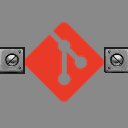
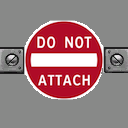
stand by for 0.9b2

diff --git a/README.md b/README.md
@@ -1,57 +1,119 @@
-GitCraft version 0.9b1
+GitCraft version 0.9b2
 
 INTRODUCTION
 
-The goal of GitCraft is to make sure that craft revisions are not lost during design and testing and to allow designers to easily
-restore older designs even if the craft was overwritten in the editor. In other words, GitCraft gives you the ability to
-undo any change to your craft provided that the version that you want to restore was saved. Thus, GitCraft can be compared
-to an undo button that works across launches and game sessions.
+The goal of GitCraft is to make sure that craft revisions are not lost during
+design and testing and to allow designers to easily restore older designs
+even if the craft was overwritten in the editor. In other words, GitCraft gives
+you the ability to undo any change to your craft provided that the version that
+you want to restore was saved. Thus, GitCraft can be compared to an undo button
+that works across launches and game sessions. GitCraft achieves this ability by
+integrating Git distributed revision control software with KSP.
 
-GitCraft achieves this ability by integrating Git distributed revision control software with KSP.
+GitCraft only affects editing your ships. It does not interact with your vessel
+outside of Vehicle Assembly Building or Space Plane Hangar. GitCraft integrates
+with the standard editor UI. In other words, your revisions are stored by git as
+you save them in the editor. To restore a revision you can activate the history
+window by clicking the git button and then click on the revision that you want
+to restore. GitCraft shows the part count and the game time when the ship was
+saved. Since version 0.9b2, and in the version you downloaded, attaching a part
+is not required to enable GitCraft, it is a "partless" plugin that works for
+all ships.
 
-GitCraft only affects editing your ships. It does not interact with your vessel outside of Vehicle Assembly Building
-or Space Plane Hangar (you need to attach the Git part to your ship to enable GitCraft, but the part does not do anything during flight).
+GitCraft is integrated with the popular Toolbar plugin (see
+http://forum.kerbalspaceprogram.com/threads/60066), but it will work even if the
+Toolbar plugin is not installed.
 
-GitCraft integrates with the standard editor UI. In other words, your revisions are stored by git as you save them in the editor.
-To restore revisions you can activate the history window by clicking the git button and then click on the revision that
-you want to restore. GitCraft provides the part count and the game time when the ship was saved.
-
-Currently, GitCraft works on Windows, Mac OS X, and Linux (Linux support is
-currently restricted to x86-64 installations of Linux and corresponding 64-bit
-executables of KSP).
+Currently, GitCraft works on Windows, Mac OS X, and a subset of Linux
+installations (i.e., x86-64 installations of Linux and corresponding 64-bit KSP
+executables).
 
 INSTALLATION
 
-1) Merge the contents of the GameData directory with the GameData directory of your Kerbal Space Program directory.
-Thus, the directory "Exosomatic Ontologies" should appear inside the GameData directory of your KSP.
-2) On Windows, copy git2-65e9dc6.dll into root KSP directory, i.e., into the directory where the file KSP.exe is.
+1) Merge the contents of the GameData directory with the GameData directory of
+your Kerbal Space Program directory.
+Thus, the directory "Exosomatic Ontologies" should appear inside the GameData
+directory of your KSP. If you are upgrading from an earlier version, then
+the old directory in GameData should be replaced by the directory from this
+distribution. In other words, please delete the old directory and then put the
+directory from this distribution in its place.
+2) On Windows, copy git2-65e9dc6.dll into root KSP directory, i.e., into the
+directory where the file KSP.exe is.
 On Mac, copy the file libgit2-65e9dc6.dylib into the root KSP directory.
-This step is necessary because GitCraft currently uses libgit2, which is a native implementaton of git. 
-
-To use GitCraft on your ship, simply attach the "Git" part that can be found under the "Control" section of the editor 
-to any part of your ship. The git button should appear in the top right corner of the editor once the part was attached.
+On Linux, copy the file libgit2-65e9dc6.so into the root KSP directory.
+This step is necessary because GitCraft currently uses libgit2, which is a
+native implementaton of git. If you are upgrading from an earlier version, then
+this step can be skipped.
 
 TECHNICAL DETAILS
 
-GitCraft initializes a new git repository in your saved game directory. Thus, if the name of your game is "default",
-then a git repository will be intialized in <KSP_ROOT>/saves/default/.git
+GitCraft initializes a new git repository in your saved game directory. Thus,
+if the name of your game is "default", then a git repository will be intialized
+in <KSP_ROOT>/saves/default/.git
 
 To delete all data stored by GitCraft, simply remove the ".git" directory.
 
-GitCraft automatically commits the craft file when it is saved. The part count and the timestamp are stored in the commit message.
+GitCraft automatically commits the craft file when it is saved. The part count
+and the timestamp are stored in the commit message.
+
+Since version 0.9b2, the Git part is NO LONGER REQUIRED for GitCraft to work,
+the plugin is "partless" and is enabled for all designs.
+The Git part is still present in the "Control" section of the editor
+to provide painless upgrade path for 0.9b1 users. In the next version the part
+WILL BE COMPLETELY REMOVED from the plugin. The upgrade code path, which will
+include a dialog requesting permission to chop the part off, will be provded in
+the next release. Users are advised to complete all active missions that use
+vessels with the Git part attached to them.
 
 SOURCE CODE AND LICENSING
 
-GitCraft uses libgit2 and libgit2sharp. GitCraft is distributed under GPLv2 license, please see GitCraft_license.txt.
-libgit2 is distributed under GPLv2, please see its license in libgit2.license.txt.
+GitCraft uses libgit2 and libgit2sharp. GitCraft is distributed under GPLv2
+license, please see GitCraft_license.txt.
 
-This project uses portions of Novapunch part pack, which is licensed under Creative Commons Attribute-Sharealike 3.0 License.
-Please see the license for Novapunch in novapunch2_03a_license.txt.
+libgit2 is distributed under GPLv2, please see its license in
+libgit2.license.txt.
 
-This project uses the git logo, which was created by Jason Long. The logo was covered by Creative Commons Attribution 3.0 Unported license 
-as of 01/15/2013. Please refert to http://creativecommons.org/licenses/by/3.0/ in order to obtain the text of the license.
+This project uses portions of Novapunch part pack, which is licensed under
+Creative Commons Attribute-Sharealike 3.0 License. Please see the license for
+Novapunch in novapunch2_03a_license.txt.
 
-The buildable source code for GitCraft and all its dependencies can be obtained from https://github.com/exmksp/GitCraft
-To build a universal binary for the libgit2 binary on Mac you may need to use the patch stored in the source directory.
+This project uses the git logo, which was created by Jason Long. The logo was
+covered by Creative Commons Attribution 3.0 Unported license
+as of 01/20/2013. Please refer to http://creativecommons.org/licenses/by/3.0/
+in order to obtain the text of the license.
 
-TODO: case sensitivity FUBAR
+The buildable source code for GitCraft and all its dependencies can be obtained
+from https://github.com/exmksp/GitCraft
+To build a universal binary for the libgit2 binary on Mac you may need to use
+the patch stored in the source directory.
+
+KNOWN ISSUES
+
+1. If a case-insensitive filesystem is used, then GitCraft does not work well if
+the capitalization of the name of the ship differs from the capitalization of
+the filename for the file in which the ship is saved. For example, if you
+are using the case-insensitive version of the Mac OS Extended filesystem
+(the default version), and if the name of your ship is "Rocket" and if
+it is saved in the file "rocket.craft", then GitCraft won't pick up the history
+correctly. Please make sure that capitalization of your files and the name of
+the ship are consistent. The issue may arize if you decide to change the
+capitalization of the ship's name after it was saved.
+
+2. GitCraft does not work well with "Auto Saved Ship.craft" files generated by
+KSP when you launch a ship without saving its design, unless the name of your
+auto saved ship is "Auto Saved Ship".
+
+3. GitCraft does not pick up history before the craft was saved or loaded.
+The reason for this is that plugins don't have access to the contents of the
+ship name widget in the editor. The plugins only have access to the ship's
+name, which is updated during saving or loading. To get access to the history
+of your ship, save it or, if it was already saved, load it.
+
+Changelog
+
+0.9b2:
+ * Plugin is now partless.
+ * Integration with blizzy78's toolbar.
+ * Linux support.
+
+0.9b1: First release.

diff --git a/features.md b/features.md
@@ -12,10 +12,12 @@ chronological order.
 0.9:
  - [ ] update README.md
 
+0.9b3
+ - [ ] upgrade path for part removal
+
 0.9b2:
  - [x] partless
  - [x] blizzy78's toolbar integration
- - [ ] start Changelog
- - [ ] upgrade path for 0.9b1 users
+ - [x] start Changelog
  - [x] linux binary for libgit2
- - [ ] update README.md
+ - [x] update README.md
